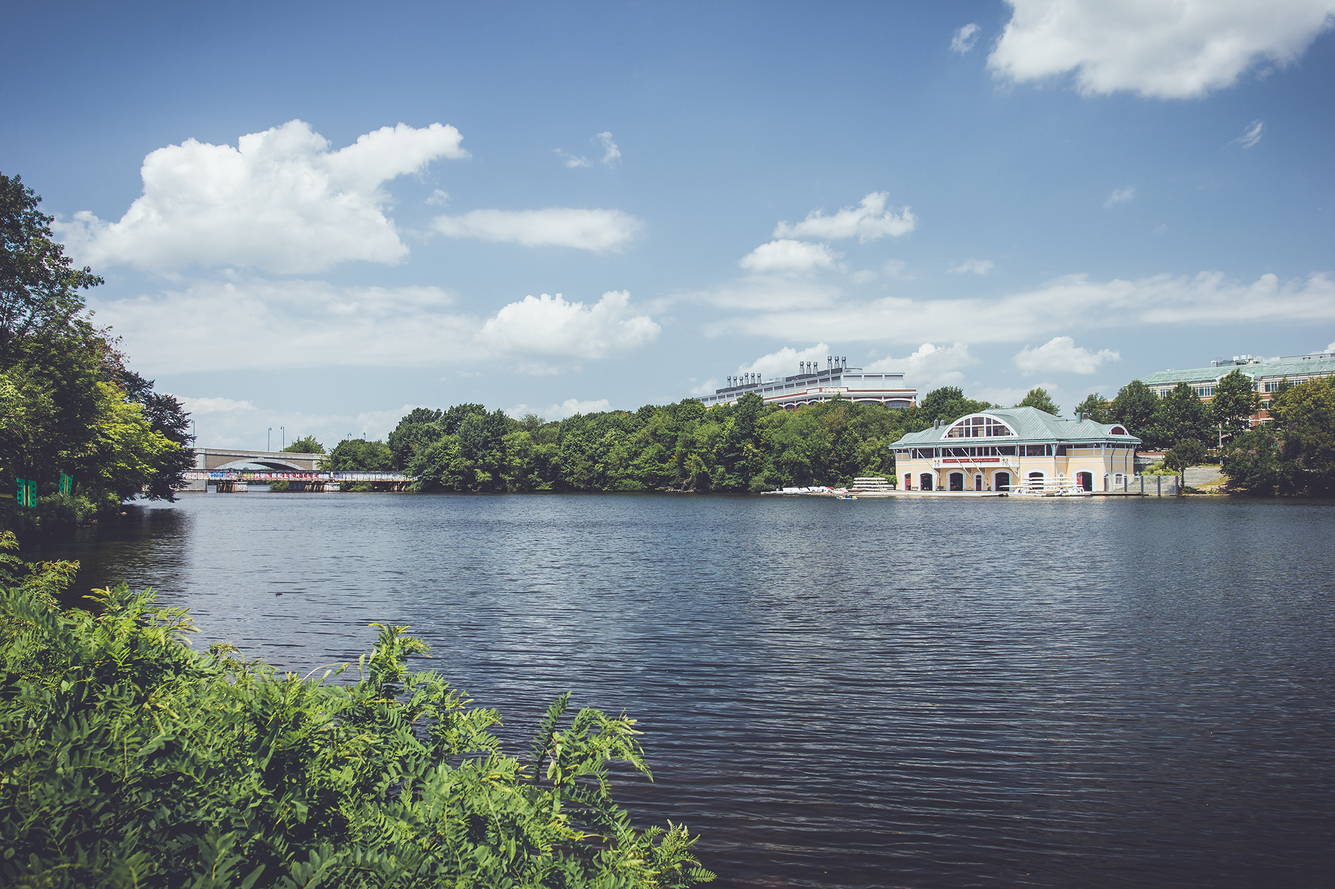
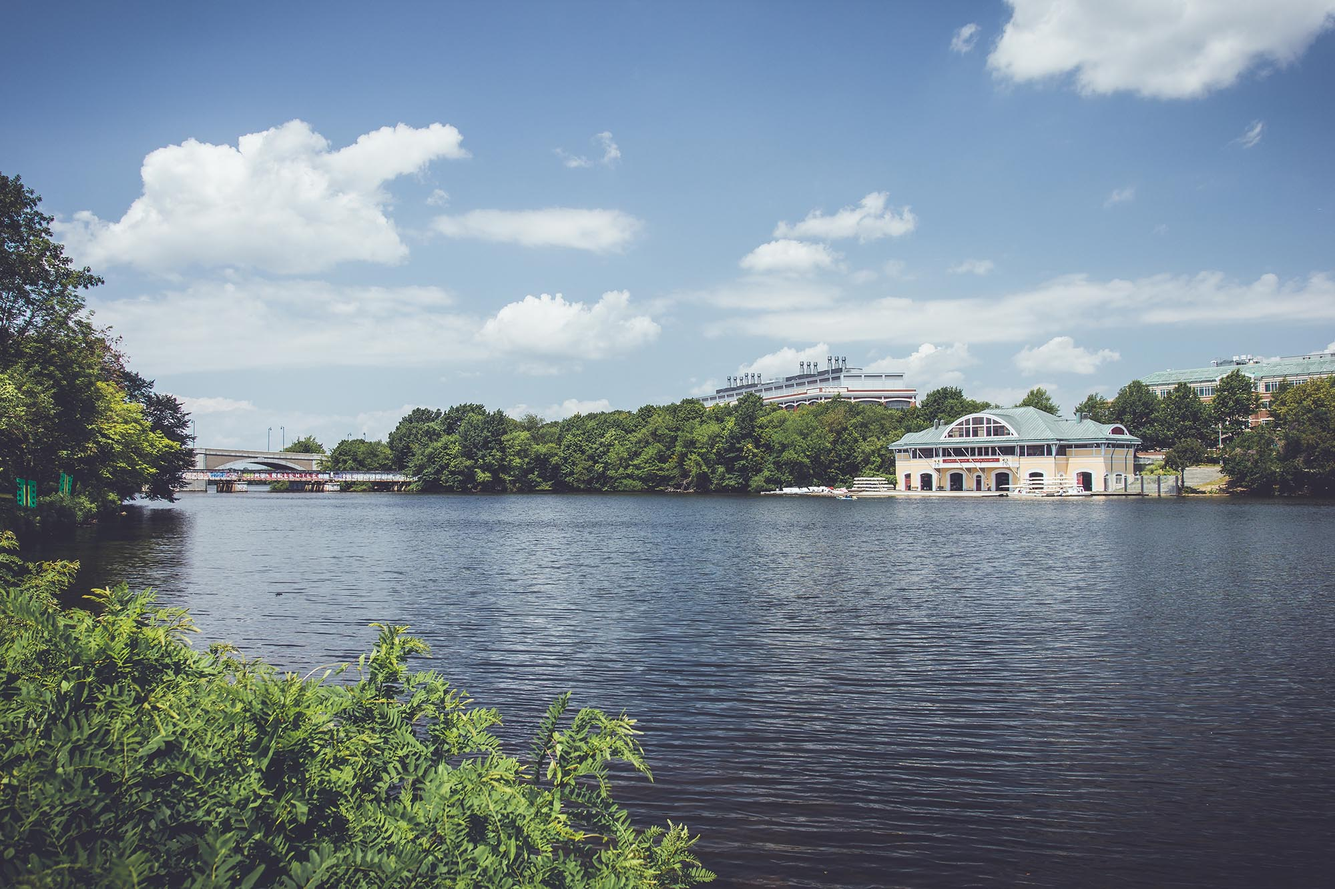
image additions and scaled all the large ones. About 300kb - 500kb each photo now

diff --git a/public/scss/about.scss b/public/scss/about.scss
@@ -3,8 +3,7 @@
 @import "modules/all";
 
 .about-background {
-  /*image link -> http://commons.wikimedia.org/wiki/File:Stuvi.JPG*/
-  background: url("../img/stuvi.jpeg") no-repeat center;
+  background: url("../img/bu-west.jpg") no-repeat center;
   background-size: cover; /* Fill entire container */
 }
 
@@ -16,8 +15,8 @@
   margin-top: 25%;
   margin-bottom: 20%;
   text-align: center;
-  color: black;
-  text-shadow: 1px 1px 2px rgba(0, 0, 0, 0.5);
+  color: $heading-text-color;
+  text-shadow: 2px 2px 4px rgba(0, 0, 0, 1);
 }
 
 .about-stuvi {

diff --git a/public/scss/home.scss b/public/scss/home.scss
@@ -13,7 +13,7 @@ body{
   padding: 0;
   position: relative;
   @media(max-width: 767px){
-    background: url('../img/cover-2-1.png') no-repeat;
+    background: url('../img/cover-2-1.jpg') no-repeat;
     background-size: cover;
   }
 }

diff --git a/public/css/faq.css b/public/css/faq.css
@@ -12,6 +12,7 @@
 .faq-container {
   margin-top: 40px;
   margin-bottom: 40px;
+  min-height: 90vh;
 }
 .faq-list {
   list-style: none;

diff --git a/resources/views/home.blade.php b/resources/views/home.blade.php
@@ -94,10 +94,14 @@
                 </div>
             @endif
         </div>
+        {{-- Images currently 2000px x 1333px image quality 7/12 on PS --}}
         <div id="slide-container">
             <div class="" id="slides">
-                <img src="{{asset('img/nick/nlouie1.jpg')}}" alt="">
-                <img src="{{asset('img/nick/nlouie2.jpg')}}" alt="">
+                <img src="{{asset('img/nick/nlouie1.jpg')}}" alt="Charles River by Nick Louie - flickr.com/photos/nickkeee">
+                <img src="{{asset('img/nick/nlouie2.jpg')}}" alt="EPC by Nick Louie - flickr.com/photos/nickkeee">
+                <img src="{{asset('img/nick/nlouie3.jpg')}}" alt="Mass Art by Nick Louie - flickr.com/photos/nickkeee">
+                <img src="{{asset('img/nick/nlouie4.jpg')}}" alt="Harvard by Nick Louie - flickr.com/photos/nickkeee">
+                <img src="{{asset('img/nick/nlouie5.jpg')}}" alt="MIT by Nick Louie - flickr.com/photos/nickkeee">
             </div>
         </div>
 
@@ -139,7 +143,6 @@
                     </p>
                 </div>
                 <div class="container col-xs-offset-1 col-sm-7 col-sm-offset-3 col-md-offset-0 col-md-4" id="img-info-1">
-                    {{--<img src="http://placehold.it/350x350">--}}
                     <img class="img-responsive" src="{{asset('/img/scaled/art-boston.jpg')}}" width="350px">
                 </div>
             </div>

diff --git a/resources/views/coming-soon.blade.php b/resources/views/coming-soon.blade.php
@@ -24,7 +24,7 @@
                     </div>
                 </form>
                 <p class="col-md-1 or" style="">or</p>
-                <a href="" onclick="goBack()" class="btn btn-news col-sm-7 col-md-5 col-md-offset-1"><i class="fa fa-arrow-left"></i> back dat ass up</a>
+                <a href="" onclick="goBack()" class="btn btn-news col-sm-7 col-md-5 col-md-offset-1"><i class="fa fa-arrow-left"></i> Go Back</a>
             </div>
         </div>
     </div>
